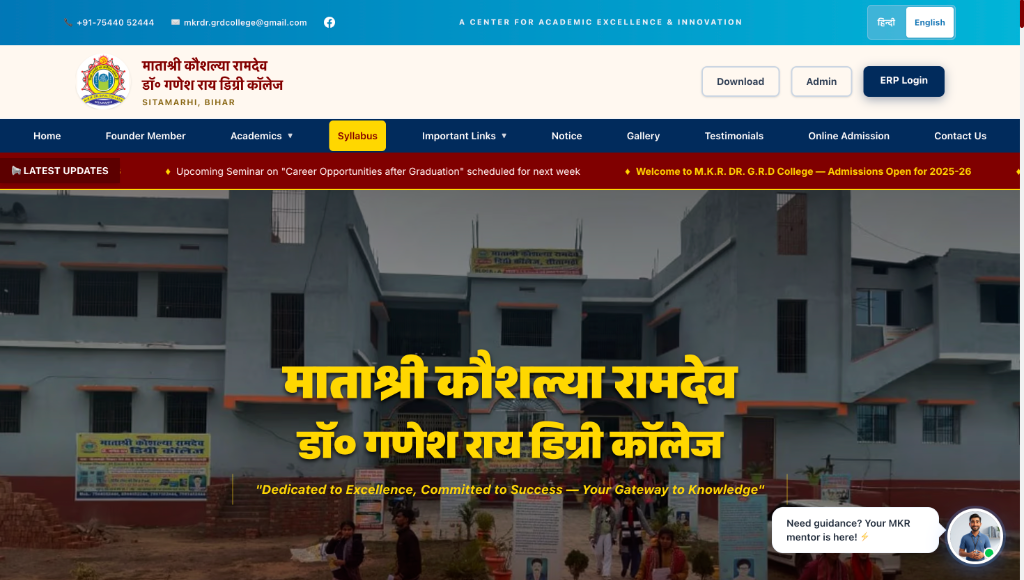
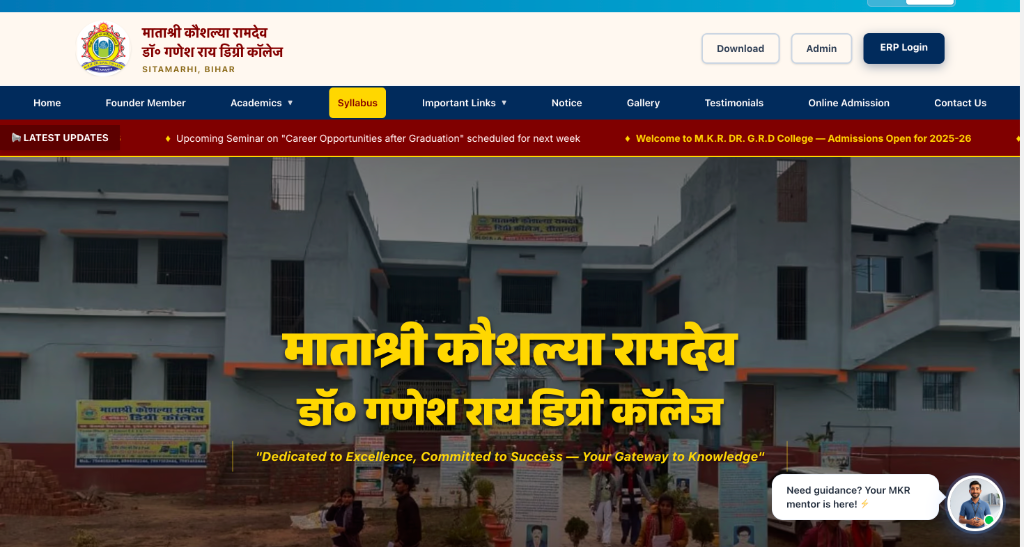
style: clean professional Experience card layout with cropped website hero previews

diff --git a/src/components/Experience.js b/src/components/Experience.js
@@ -25,9 +25,9 @@ function ExternalLinkIcon({ size = 14 }) {
 
 const experiences = [
   {
-    role: 'Web Developer — Freelance',
     company: 'M.K.R. College Website',
-    period: 'January 2026 – Present',
+    role: 'Freelance Web Developer',
+    period: 'Jan 2026 – Present',
     live: 'https://mkrcollege.com',
     image: '/experience/mkrcollege.png',
     points: [
@@ -37,9 +37,9 @@ const experiences = [
     ],
   },
   {
-    role: 'Web Developer — Freelance',
     company: 'Sudhakar VFX & Animation Portfolio',
-    period: 'March 2026 – Present',
+    role: 'Freelance Web Developer',
+    period: 'Mar 2026 – Present',
     live: 'https://sukuae.in',
     image: '/experience/sukuae.png',
     points: [
@@ -49,9 +49,9 @@ const experiences = [
     ],
   },
   {
-    role: 'Web Developer — Freelance',
     company: 'Rudra Gupta AI/ML Portfolio',
-    period: 'February 2026 – Present',
+    role: 'Freelance Web Developer',
+    period: 'Feb 2026 – Present',
     live: 'https://rudra-gupta.vercel.app/',
     image: '/experience/rudra.png',
     points: [
@@ -61,9 +61,9 @@ const experiences = [
     ],
   },
   {
-    role: 'Java Development Intern',
     company: 'CodeAlpha',
-    period: 'October 2025 – November 2025',
+    role: 'Java Development Intern',
+    period: 'Oct 2025 – Nov 2025',
     live: null,
     image: null,
     points: [
@@ -83,8 +83,8 @@ const containerVariants = {
 };
 
 const itemVariants = {
-  hidden: { opacity: 0, x: -20 },
-  visible: { opacity: 1, x: 0, transition: { duration: 0.45 } },
+  hidden: { opacity: 0, y: 30 },
+  visible: { opacity: 1, y: 0, transition: { duration: 0.45 } },
 };
 
 export default function Experience() {
@@ -117,24 +117,26 @@ export default function Experience() {
             </div>
 
             <div className={styles.content}>
-              <div className={styles.meta}>
-                <h3 className={styles.role}>{exp.role}</h3>
-                <span className={styles.period}>{exp.period}</span>
-              </div>
+              <div className={styles.cardHeader}>
+                <div className={styles.headerLeft}>
+                  <h3 className={styles.companyName}>{exp.company}</h3>
+                  <span className={styles.roleTag}>{exp.role}</span>
+                </div>
 
-              <div className={styles.companyRow}>
-                <p className={styles.company}>{exp.company}</p>
-                {exp.live && (
-                  <a
-                    href={exp.live}
-                    target="_blank"
-                    rel="noopener noreferrer"
-                    className={styles.liveBtn}
-                  >
-                    <span>Visit Live Site</span>
-                    <ExternalLinkIcon size={14} />
-                  </a>
-                )}
+                <div className={styles.headerRight}>
+                  <span className={styles.period}>{exp.period}</span>
+                  {exp.live && (
+                    <a
+                      href={exp.live}
+                      target="_blank"
+                      rel="noopener noreferrer"
+                      className={styles.visitBtn}
+                    >
+                      <span>Live Site</span>
+                      <ExternalLinkIcon size={13} />
+                    </a>
+                  )}
+                </div>
               </div>
 
               {exp.image && (
@@ -148,7 +150,7 @@ export default function Experience() {
                     src={exp.image}
                     alt={exp.company}
                     fill
-                    sizes="(max-width: 768px) 100vw, 700px"
+                    sizes="(max-width: 768px) 100vw, 800px"
                     className={styles.previewImage}
                   />
                 </a>

diff --git a/src/components/Experience.module.css b/src/components/Experience.module.css
@@ -55,82 +55,90 @@
   justify-content: center;
   flex-shrink: 0;
   z-index: 1;
+  box-shadow: 0 4px 12px rgba(35, 45, 32, 0.15);
 }
 
 .line {
   width: 2px;
   flex: 1;
   background: var(--cream-border);
-  margin-top: 4px;
+  margin-top: 6px;
 }
 
 .content {
   flex: 1;
   background-color: var(--cream-light);
   border: 1.5px solid var(--cream-border);
-  border-radius: var(--radius-card);
+  border-radius: 20px;
   padding: 1.75rem;
   margin-bottom: 2rem;
+  box-shadow: 0 6px 20px rgba(35, 45, 32, 0.04);
 }
 
-.meta {
+.cardHeader {
   display: flex;
   justify-content: space-between;
-  align-items: baseline;
+  align-items: flex-start;
   flex-wrap: wrap;
-  gap: 0.5rem;
-  margin-bottom: 0.35rem;
+  gap: 1rem;
+  margin-bottom: 1.25rem;
 }
 
-.role {
-  font-size: 1.25rem;
+.headerLeft {
+  display: flex;
+  flex-direction: column;
+  gap: 0.35rem;
+}
+
+.companyName {
+  font-size: 1.3rem;
   font-weight: 800;
   color: var(--forest-dark);
+  line-height: 1.2;
+}
+
+.roleTag {
+  font-size: 0.85rem;
+  font-weight: 700;
+  color: var(--text-muted);
+  text-transform: uppercase;
+  letter-spacing: 0.04em;
+}
+
+.headerRight {
+  display: flex;
+  align-items: center;
+  gap: 0.75rem;
+  flex-wrap: wrap;
 }
 
 .period {
-  font-size: 0.85rem;
+  font-size: 0.82rem;
   font-weight: 700;
   color: var(--forest-dark);
   background-color: var(--cream-card);
-  padding: 0.3rem 0.85rem;
+  padding: 0.35rem 0.9rem;
   border-radius: var(--radius-pill);
   border: 1px solid var(--cream-border);
+  white-space: nowrap;
 }
 
-.companyRow {
-  display: flex;
-  align-items: center;
-  justify-content: space-between;
-  margin-bottom: 1rem;
-  flex-wrap: wrap;
-  gap: 0.75rem;
-}
-
-.company {
-  font-size: 0.95rem;
-  color: var(--text-muted);
-  font-weight: 700;
-  text-transform: uppercase;
-  letter-spacing: 0.03em;
-  margin: 0;
-}
-
-.liveBtn {
+.visitBtn {
   display: inline-flex;
   align-items: center;
-  gap: 0.4rem;
-  padding: 0.35rem 0.85rem;
+  gap: 0.35rem;
+  padding: 0.35rem 0.9rem;
   border-radius: var(--radius-pill);
   background-color: var(--forest-dark);
   color: var(--cream-light);
-  font-size: 0.8rem;
+  font-size: 0.82rem;
   font-weight: 700;
   transition: all 0.2s ease;
   text-decoration: none;
+  white-space: nowrap;
 }
 
-.liveBtn:hover {
+.visitBtn:hover {
   background-color: #161B14;
   transform: translateY(-2px);
   box-shadow: 0 4px 12px rgba(35, 45, 32, 0.2);
@@ -139,14 +147,14 @@
 .previewContainer {
   display: block;
   width: 100%;
-  height: 190px;
+  height: 220px;
   position: relative;
   overflow: hidden;
-  border-radius: 12px;
+  border-radius: 14px;
   border: 1.5px solid var(--cream-border);
   margin-bottom: 1.25rem;
   background-color: var(--forest-dark);
-  box-shadow: 0 6px 18px rgba(35, 45, 32, 0.08);
+  box-shadow: 0 6px 20px rgba(35, 45, 32, 0.08);
 }
 
 .previewImage {
@@ -189,15 +197,15 @@
     padding: 2rem 1.5rem;
     border-radius: 28px;
   }
-  .meta {
+  .cardHeader {
     flex-direction: column;
     align-items: flex-start;
   }
-  .companyRow {
-    flex-direction: column;
-    align-items: flex-start;
+  .headerRight {
+    width: 100%;
+    justify-content: space-between;
   }
   .previewContainer {
-    height: 150px;
+    height: 160px;
   }
 }
